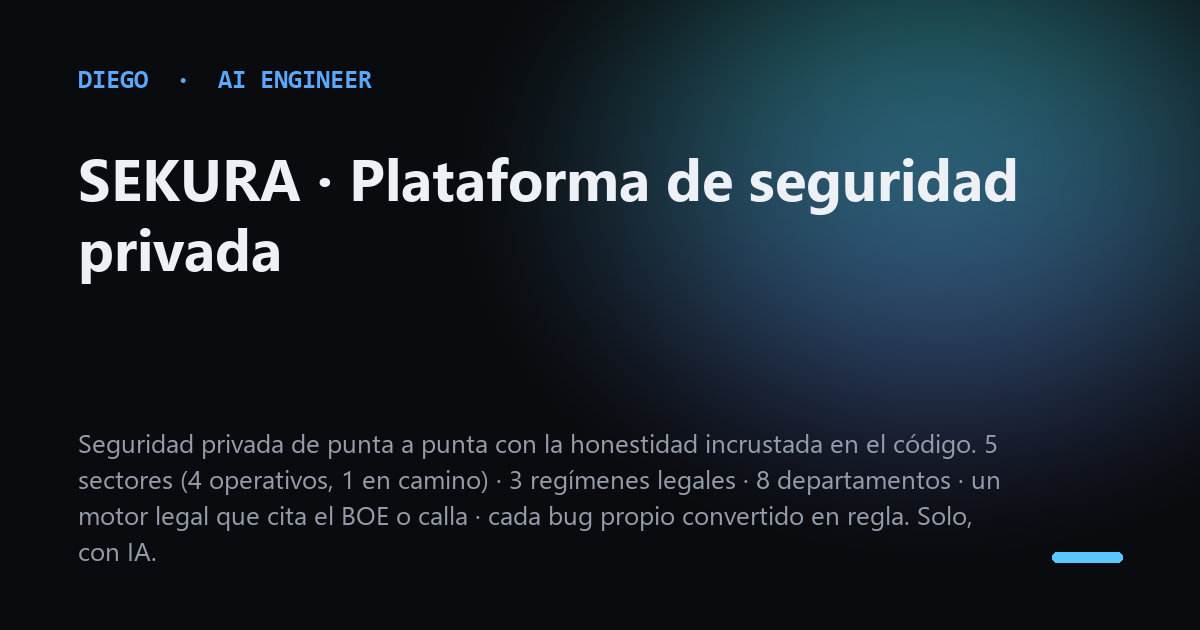
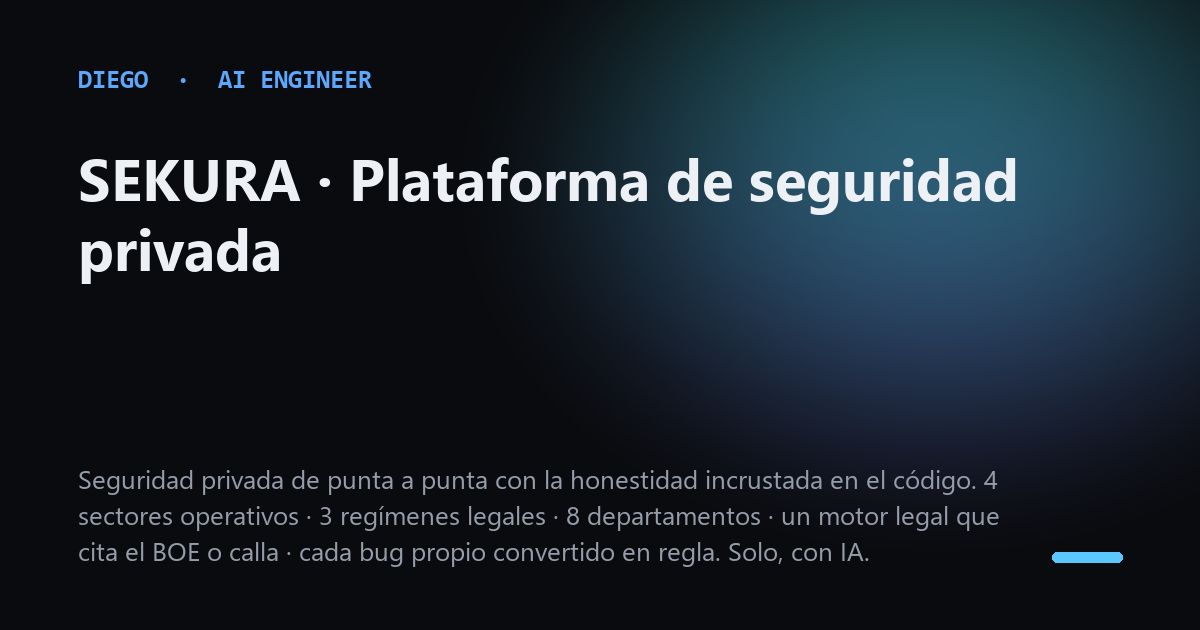
el RAG se publica con su medicion, y TikTok Ads entra en el stack
El sitio decia «no lo he construido: RAG y bases vectoriales» y es falso desde
el 03-09: SEKURA tiene el camino completo (ingesta, embeddings de 384 dim,
pgvector, recuperacion). Se publica lo que se midio, que es lo que vale:

  no separa · recall@1 28-38 % · por eso el gate de citas sigue determinista

Docker y Kubernetes se quedan en «no lo he construido», que si es verdad.
Y las 2 tarjetas og: desincronizadas, regeneradas.

Changed region(s): [[0.0617, 0.754, 0.8325, 0.9048], [0.0617, 0.6937, 0.8325, 0.7238], [0.0617, 0.8143, 0.0925, 0.8444]]

diff --git a/SEKURA/SEKURA.html b/SEKURA/SEKURA.html
@@ -4,10 +4,10 @@
 <meta charset="UTF-8">
 <meta name="viewport" content="width=device-width, initial-scale=1.0">
 <title>Diego · SEKURA · Plataforma de seguridad privada</title>
-<meta name="description" content="Plataforma full-stack de seguridad privada (España) construida en solitario con IA en ~6 semanas: 5 sectores (4 operativos, 1 en camino) con 3 regímenes legales, un Centro de Mando de 8 departamentos, defensa en profundidad y un motor legal que se prohíbe dictaminar cumplimiento. Es un MVP (Stripe test, licencia en trámite): la honestidad y el rigor están incrustados en la arquitectura.">
+<meta name="description" content="Plataforma full-stack de seguridad privada (España) construida en solitario con IA en ~6 semanas: 4 sectores operativos con 3 regímenes legales, un Centro de Mando de 8 departamentos, defensa en profundidad y un motor legal que se prohíbe dictaminar cumplimiento. Es un MVP (Stripe test, licencia en trámite): la honestidad y el rigor están incrustados en la arquitectura.">
 <meta name="color-scheme" content="dark">
 <meta property="og:title" content="Diego · SEKURA · Plataforma de seguridad privada">
-<meta property="og:description" content="Seguridad privada de punta a punta con la honestidad incrustada en el código. 5 sectores (4 operativos, 1 en camino) · 3 regímenes legales · 8 departamentos · un motor legal que cita el BOE o calla · cada bug propio convertido en regla. Solo, con IA.">
+<meta property="og:description" content="Seguridad privada de punta a punta con la honestidad incrustada en el código. 4 sectores operativos · 3 regímenes legales · 8 departamentos · un motor legal que cita el BOE o calla · cada bug propio convertido en regla. Solo, con IA.">
 <meta property="og:url" content="https://diegotomasllopis.com/SEKURA/SEKURA.html">
 <meta property="og:image" content="https://diegotomasllopis.com/assets/og-sekura.png">
 <meta property="og:image:width" content="1200">
@@ -813,10 +813,10 @@ body{overflow:hidden}
     </div>
 
     <div class="stats">
-      <div class="stat reveal"><div class="n display grad-text"><span class="ct" data-to="5"></span></div><div class="l"><span class="t-es">sectores de reserva, <b>4 operativos, 1 en camino</b> · 3 regímenes legales</span><span class="t-en">booking sectors, <b>4 live, 1 coming</b> · 3 legal regimes</span><span class="t-ca">sectors de reserva, <b>4 operatius, 1 en camí</b> · 3 règims legals</span></div></div>
+      <div class="stat reveal"><div class="n display grad-text"><span class="ct" data-to="4"></span></div><div class="l"><span class="t-es">sectores de reserva, <b>los 4 operativos</b> · 3 regímenes legales</span><span class="t-en">booking sectors, <b>all 4 live</b> · 3 legal regimes</span><span class="t-ca">sectors de reserva, <b>els 4 operatius</b> · 3 règims legals</span></div></div>
       <div class="stat reveal"><div class="n display grad-text"><span class="ct" data-to="8"></span></div><div class="l"><span class="t-es">departamentos · una empresa como software</span><span class="t-en">departments · a company as software</span><span class="t-ca">departaments · una empresa com a programari</span></div></div>
-      <div class="stat reveal"><div class="n display grad-text"><span class="ct" data-to="257"></span></div><div class="l"><span class="t-es">tests unit en verde · + suite RLS contra una BD real</span><span class="t-en">unit tests green · + RLS suite against a real DB</span><span class="t-ca">tests unit en verd · + suite RLS contra una BD real</span></div></div>
-      <div class="stat reveal"><div class="n display grad-text"><span class="ct" data-to="23"></span></div><div class="l"><span class="t-es">bugs propios cazados · cada uno &rarr; una regla</span><span class="t-en">of my own bugs caught · each one &rarr; a rule</span><span class="t-ca">bugs propis caçats · cadascun &rarr; una regla</span></div></div>
+      <div class="stat reveal"><div class="n display grad-text"><span class="ct" data-to="334"></span></div><div class="l"><span class="t-es">tests unit en verde · + suite RLS contra una BD real</span><span class="t-en">unit tests green · + RLS suite against a real DB</span><span class="t-ca">tests unit en verd · + suite RLS contra una BD real</span></div></div>
+      <div class="stat reveal"><div class="n display grad-text"><span class="ct" data-to="32"></span></div><div class="l"><span class="t-es">incidentes propios registrados · 28 de ellos &rarr; una regla</span><span class="t-en">of my own incidents logged · 28 of them &rarr; a rule</span><span class="t-ca">incidents propis registrats · 28 d'ells &rarr; una regla</span></div></div>
     </div>
   </header>
 </div>
@@ -828,10 +828,10 @@ body{overflow:hidden}
   <div class="wrap">
     <div class="sec-head reveal">
       <div class="eyebrow"><span class="t-es">El catálogo honesto</span><span class="t-en">The honest catalog</span><span class="t-ca">El catàleg honest</span></div>
-      <h2 class="t-es">Cinco sectores, tres regímenes legales, y el producto sabe la diferencia</h2>
-      <h2 class="t-en">Five sectors, three legal regimes, and the product knows the difference</h2><h2 class="t-ca">Cinc sectors, tres règims legals, i el producte sap la diferència</h2>
-      <p class="t-es">La misma UI vende cinco sectores, pero por debajo el código distingue con precisión cuáles son legalmente "seguridad privada" y cuáles <strong>no</strong>. <strong>Dos de los cinco no lo son</strong>, y la copy de cara al cliente lo admite, porque venderlos como "seguridad" sería intrusismo. La ley encajada en el catálogo, no en un disclaimer.</p>
-      <p class="t-en">The same UI sells five sectors, but underneath the code precisely tells which are legally "private security" and which are <strong>not</strong>. <strong>Two of the five are not</strong>, and the client-facing copy admits it, because selling them as "security" would be an offense. The law embedded in the catalog, not in a disclaimer.</p><p class="t-ca">La mateixa UI ven cinc sectors, però per sota el codi distingeix amb precisió quins són legalment «seguretat privada» i quins <strong>no</strong>. <strong>Dos dels cinc no ho són</strong>, i la copy de cara al client ho admet, perquè vendre'ls com a «seguretat» seria intrusisme. La llei encaixada al catàleg, no en un disclaimer.</p>
+      <h2 class="t-es">Cuatro sectores, tres regímenes legales, y el producto sabe la diferencia</h2>
+      <h2 class="t-en">Four sectors, three legal regimes, and the product knows the difference</h2><h2 class="t-ca">Quatre sectors, tres règims legals, i el producte sap la diferència</h2>
+      <p class="t-es">La misma UI vende cuatro sectores, pero por debajo el código distingue con precisión cuáles son legalmente "seguridad privada" y cuáles <strong>no</strong>. <strong>Dos de los cuatro no lo son</strong>, y la copy de cara al cliente lo admite, porque venderlos como "seguridad" sería intrusismo. La ley encajada en el catálogo, no en un disclaimer.</p>
+      <p class="t-en">The same UI sells four sectors, but underneath the code precisely tells which are legally "private security" and which are <strong>not</strong>. <strong>Two of the four are not</strong>, and the client-facing copy admits it, because selling them as "security" would be an offense. The law embedded in the catalog, not in a disclaimer.</p><p class="t-ca">La mateixa UI ven quatre sectors, però per sota el codi distingeix amb precisió quins són legalment «seguretat privada» i quins <strong>no</strong>. <strong>Dos dels quatre no ho són</strong>, i la copy de cara al client ho admet, perquè vendre'ls com a «seguretat» seria intrusisme. La llei encaixada al catàleg, no en un disclaimer.</p>
     </div>
 
     <table class="stbl reveal">
@@ -866,19 +866,13 @@ body{overflow:hidden}
           <td data-h="How it's engaged" data-h-es="Cómo se contrata" data-h-ca="Com es contracta"><span class="v v-val"><span class="t-es">self-service · fuera del ámbito de la ley</span><span class="t-en">self-service · outside the law's scope</span><span class="t-ca">self-service · fora de l'àmbit de la llei</span></span></td>
           <td data-h="Private security?" data-h-es="¿Seguridad privada?" data-h-ca="Seguretat privada?"><span class="v v-inc"><span class="t-es">NO</span><span class="t-en">NO</span><span class="t-ca">NO</span></span></td>
         </tr>
-        <tr>
-          <td data-h="Sector" data-h-es="Sector" data-h-ca="Sector"><span class="sn"><span class="t-es">Cuerpos del Estado</span><span class="t-en">State forces</span><span class="t-ca">Cossos de l'Estat</span></span><span class="sd"><span class="t-es">En preparación</span><span class="t-en">In preparation</span><span class="t-ca">En preparació</span></span></td>
-          <td data-h="Legal regime" data-h-es="Régimen legal" data-h-ca="Règim legal"><span class="mono">: </span></td>
-          <td data-h="How it's engaged" data-h-es="Cómo se contrata" data-h-ca="Com es contracta"><span class="mono">: </span></td>
-          <td data-h="Private security?" data-h-es="¿Seguridad privada?" data-h-ca="Seguretat privada?"><span class="v v-marg"><span class="t-es">Pronto</span><span class="t-en">Soon</span><span class="t-ca">Aviat</span></span></td>
-        </tr>
       </tbody>
     </table>
 
     <div class="truth reveal">
       <span class="tl grad-text"><span class="t-es">Honestidad como arquitectura</span><span class="t-en">Honesty as architecture</span><span class="t-ca">Honestedat com a arquitectura</span></span>
-      <p class="t-es">El controlador de acceso (régimen autonómico de espectáculos) y el personal auxiliar (art. 6.2) <b>no son seguridad privada</b>, y el motor lo sabe: cada sector lleva su régimen, y el gate legal <b>exime</b> a los que la ley no obliga (sin autorización estatal, sin contrato del art. 20.1). Cada servicio compone además una calculadora distinta y una tabla de asignación propia; un cliente puede pedir <b>varios a la vez</b> para un evento, y cada uno conserva intacta su maquinaria legal.</p>
-      <p class="t-en">Access control (regional entertainment regime) and auxiliary staff (art. 6.2) <b>are not private security</b>, and the engine knows it: each sector carries its regime, and the legal gate <b>exempts</b> those the law doesn't bind (no state authorization, no art. 20.1 contract). Each service also composes a distinct calculator and its own assignment table; a client can request <b>several at once</b> for one event, and each keeps its legal machinery intact.</p><p class="t-ca">El controlador d'accés (règim autonòmic d'espectacles) i el personal auxiliar (art. 6.2) <b>no són seguretat privada</b>, i el motor ho sap: cada sector porta el seu règim, i el gate legal <b>eximeix</b> els que la llei no obliga (sense autorització estatal, sense contracte de l'art. 20.1). Cada servei compon a més una calculadora diferent i una taula d'assignació pròpia; un client en pot demanar <b>diversos alhora</b> per a un esdeveniment, i cadascun conserva intacta la seva maquinària legal.</p>
+      <p class="t-es">El controlador de acceso (régimen autonómico de espectáculos) y el personal auxiliar (art. 6.2) <b>no son seguridad privada</b>, y el motor lo sabe: cada sector lleva su régimen, y el gate legal <b>exime</b> a los que la ley no obliga (sin autorización estatal, sin contrato del art. 20.1). Cada servicio compone además una calculadora distinta y una tabla de asignación propia; un cliente puede pedir <b>varios a la vez</b> para un evento, y cada uno conserva intacta su maquinaria legal. Hubo un 5.º sector planeado ("Cuerpos del Estado", ex-agentes que protegen personas) y se <b>retiró</b>, no por falta de tiempo: el BOE tiene una lista cerrada de habilitaciones (art. 26.1) y un ex-agente que protege personas ya <b>es</b> un escolta habilitado, no una categoría aparte. Mantener el rótulo habría sido la promesa pública falsa; retirarlo fue lo que la ley exigía.</p>
+      <p class="t-en">Access control (regional entertainment regime) and auxiliary staff (art. 6.2) <b>are not private security</b>, and the engine knows it: each sector carries its regime, and the legal gate <b>exempts</b> those the law doesn't bind (no state authorization, no art. 20.1 contract). Each service also composes a distinct calculator and its own assignment table; a client can request <b>several at once</b> for one event, and each keeps its legal machinery intact. A planned 5th sector ("State forces", ex-officers doing personal protection) got <b>pulled</b>, and not for lack of time: the BOE has a closed list of authorizations (art. 26.1), and an ex-officer protecting people already <b>is</b> a licensed bodyguard, not a separate category. Keeping the label would have been the false public promise; pulling it is what the law required.</p><p class="t-ca">El controlador d'accés (règim autonòmic d'espectacles) i el personal auxiliar (art. 6.2) <b>no són seguretat privada</b>, i el motor ho sap: cada sector porta el seu règim, i el gate legal <b>eximeix</b> els que la llei no obliga (sense autorització estatal, sense contracte de l'art. 20.1). Cada servei compon a més una calculadora diferent i una taula d'assignació pròpia; un client en pot demanar <b>diversos alhora</b> per a un esdeveniment, i cadascun conserva intacta la seva maquinària legal. Hi va haver un 5è sector planejat («Cossos de l'Estat», ex-agents que protegeixen persones) i es va <b>retirar</b>, no per falta de temps: el BOE té una llista tancada d'habilitacions (art. 26.1) i un ex-agent que protegeix persones ja <b>és</b> un escorta habilitat, no una categoria a part. Mantenir el rètol hauria estat la promesa pública falsa; retirar-lo és el que la llei exigia.</p>
     </div>
   </div>
 </section>
@@ -1182,8 +1176,8 @@ body{overflow:hidden}
 
     <div class="truth reveal">
       <span class="tl grad-text"><span class="t-es">Cita o calla</span><span class="t-en">Cite or stay silent</span><span class="t-ca">Cita o calla</span></span>
-      <p class="t-es">Ningún agente afirma que SEKURA "cumple": el dictamen lo firma un abogado. Cada norma vigilada y cada hallazgo llevan <b>URL oficial (BOE / EUR-Lex / AEPD) y cita literal</b>, fetcheada en la corrida; sin fuente verificada, no se reporta. La regla nació de un fallo real: un agente de este equipo <b>se inventó un hecho legal</b> y casi entra en material de inversor. La watchlist que barre la rutina mensual es <b>la misma</b> que ve el inversor, no pueden divergir. Y sobre el estatus, sin adornos: <b>MVP · Stripe test · licencia y Nº de Registro en trámite</b> (placeholder honesto, no inventado).</p>
-      <p class="t-en">No agent claims SEKURA "complies": the ruling is a lawyer's. Every watched rule and every finding carries an <b>official URL (BOE / EUR-Lex / AEPD) and a literal citation</b>, fetched during the run; without a verified source, it isn't reported. The rule was born from a real failure: an agent on this team <b>invented a legal fact</b> and nearly reached investor material. The watchlist the monthly routine sweeps is <b>the same</b> the investor sees: they can't diverge. And on status, unadorned: <b>MVP · Stripe test · license and registry number pending</b> (an honest placeholder, not invented).</p><p class="t-ca">Cap agent afirma que SEKURA «compleix»: el dictamen el signa un advocat. Cada norma vigilada i cada troballa porten <b>URL oficial (BOE / EUR-Lex / AEPD) i cita literal</b>, fetchada a la correguda; sense font verificada, no es reporta. La regla va néixer d'una fallada real: un agent d'aquest equip <b>es va inventar un fet legal</b> i gairebé entra en material d'inversor. La watchlist que escombra la rutina mensual és <b>la mateixa</b> que veu l'inversor, no poden divergir. I sobre l'estatus, sense adorns: <b>MVP · Stripe test · llicència i Nº de Registre en tràmit</b> (placeholder honest, no inventat).</p>
+      <p class="t-es">Ningún agente afirma que SEKURA "cumple": el dictamen lo firma un abogado. Cada norma vigilada y cada hallazgo llevan <b>URL oficial (BOE / EUR-Lex / AEPD) y cita literal</b>, fetcheada en la corrida; sin fuente verificada, no se reporta. La regla nació de un fallo real: un agente de este equipo <b>se inventó un hecho legal</b> y casi entra en material de inversor. Esa regla ya no depende solo de que un agente se acuerde: un verificador puro compara cada cita del catálogo contra el texto oficial del BOE (corpus versionado, sin BD ni red) y <b>bloquea el CI</b> si el literal no aparece; nació de que la misma auditoría cazó dos citas fabricadas en ese catálogo. La watchlist que barre la rutina mensual es <b>la misma</b> que ve el inversor, no pueden divergir. Y sobre el estatus, sin adornos: <b>MVP · Stripe test · licencia y Nº de Registro en trámite</b> (placeholder honesto, no inventado).</p>
+      <p class="t-en">No agent claims SEKURA "complies": the ruling is a lawyer's. Every watched rule and every finding carries an <b>official URL (BOE / EUR-Lex / AEPD) and a literal citation</b>, fetched during the run; without a verified source, it isn't reported. The rule was born from a real failure: an agent on this team <b>invented a legal fact</b> and nearly reached investor material. That rule no longer depends only on an agent remembering: a pure verifier diffs every catalog citation against the BOE's official text (versioned corpus, no DB, no network) and <b>blocks CI</b> when the literal doesn't match; born from that same audit catching two fabricated citations in that catalog. The watchlist the monthly routine sweeps is <b>the same</b> the investor sees: they can't diverge. And on status, unadorned: <b>MVP · Stripe test · license and registry number pending</b> (an honest placeholder, not invented).</p><p class="t-ca">Cap agent afirma que SEKURA «compleix»: el dictamen el signa un advocat. Cada norma vigilada i cada troballa porten <b>URL oficial (BOE / EUR-Lex / AEPD) i cita literal</b>, fetchada a la correguda; sense font verificada, no es reporta. La regla va néixer d'una fallada real: un agent d'aquest equip <b>es va inventar un fet legal</b> i gairebé entra en material d'inversor. Aquesta regla ja no depèn només que un agent se'n recordi: un verificador pur compara cada cita del catàleg contra el text oficial del BOE (corpus versionat, sense BD ni xarxa) i <b>bloqueja el CI</b> si el literal no hi apareix; va néixer que la mateixa auditoria va caçar dues citacions fabricades en aquest catàleg. La watchlist que escombra la rutina mensual és <b>la mateixa</b> que veu l'inversor, no poden divergir. I sobre l'estatus, sense adorns: <b>MVP · Stripe test · llicència i Nº de Registre en tràmit</b> (placeholder honest, no inventat).</p>
     </div>
   </div>
 </section>
@@ -1196,8 +1190,8 @@ body{overflow:hidden}
       <div class="eyebrow"><span class="t-es">El registro de incidentes</span><span class="t-en">The incident ledger</span><span class="t-ca">El registre d'incidents</span></div>
       <h2 class="t-es">Bugs que cacé en mi propio sistema, y qué aprendí de cada uno</h2>
       <h2 class="t-en">Bugs I caught in my own system, and what each one taught me</h2><h2 class="t-ca">Bugs que vaig caçar al meu propi sistema, i què vaig aprendre de cadascun</h2>
-      <p class="t-es">No presumo de no tener bugs. Presumo de un <strong>sistema que los caza</strong>: un registro append-only donde cada incidente se convierte en una regla que la próxima sesión aplica sola. Estos son reales, del propio proyecto (23 en total), contados <strong>a nivel de patrón</strong>, sin exponer el esquema.</p>
-      <p class="t-en">I don't brag about having no bugs. I brag about a <strong>system that catches them</strong>: an append-only ledger where each incident becomes a rule the next session applies on its own. These are real, from the project (23 total), told <strong>at the pattern level</strong>: no schema exposed.</p><p class="t-ca">No presumeixo de no tenir bugs. Presumeixo d'un <strong>sistema que els caça</strong>: un registre append-only on cada incident es converteix en una regla que la sessió següent aplica sola. Aquests són reals, del mateix projecte (23 en total), explicats <strong>a nivell de patró</strong>, sense exposar l'esquema.</p>
+      <p class="t-es">No presumo de no tener bugs. Presumo de un <strong>sistema que los caza</strong>: un registro append-only donde cada incidente se convierte en una regla que la próxima sesión aplica sola. Estos son reales, del propio proyecto (32 en total), contados <strong>a nivel de patrón</strong>, sin exponer el esquema.</p>
+      <p class="t-en">I don't brag about having no bugs. I brag about a <strong>system that catches them</strong>: an append-only ledger where each incident becomes a rule the next session applies on its own. These are real, from the project (32 total), told <strong>at the pattern level</strong>: no schema exposed.</p><p class="t-ca">No presumeixo de no tenir bugs. Presumeixo d'un <strong>sistema que els caça</strong>: un registre append-only on cada incident es converteix en una regla que la sessió següent aplica sola. Aquests són reals, del mateix projecte (32 en total), explicats <strong>a nivell de patró</strong>, sense exposar l'esquema.</p>
     </div>
 
     <table class="stbl reveal">
@@ -1255,6 +1249,12 @@ body{overflow:hidden}
           <td data-h="What it was" data-h-es="Qué era" data-h-ca="Què era"><span class="t-es">Como todo el back-office comparte el mismo rol técnico, una regla basada en "es admin" abría la PII más sensible a <strong>cualquier</strong> miembro por su propio token, saltándose el permiso fino por departamento.</span><span class="t-en">Since the whole back-office shares one technical role, a rule based on "is admin" opened the most sensitive PII to <strong>any</strong> member via their own token, bypassing the fine-grained departmental permission.</span><span class="t-ca">Com que tot el back-office comparteix el mateix rol tècnic, una regla basada en «és admin» obria la PII més sensible a <strong>qualsevol</strong> membre pel seu propi token, saltant-se el permís fi per departament.</span></td>
           <td data-h="Evidence" data-h-es="Evidencia" data-h-ca="Evidència" class="mono"><span class="t-es">cero-grant-a-admin; nunca desplegado</span><span class="t-en">zero-grant-to-admin; never shipped</span><span class="t-ca">zero-grant-a-admin; mai desplegat</span></td>
           <td data-h="Verdict" data-h-es="Veredicto" data-h-ca="Veredicte"><span class="v v-val"><span class="t-es">cazado pre-push</span><span class="t-en">caught pre-push</span><span class="t-ca">caçat pre-push</span></span></td>
+        </tr>
+        <tr>
+          <td data-h="Incident" data-h-es="Incidente" data-h-ca="Incident"><span class="sn"><span class="t-es">Dos citas del BOE que no eran literales</span><span class="t-en">Two BOE quotes that weren't literal</span><span class="t-ca">Dues cites del BOE que no eren literals</span></span><span class="sd"><span class="t-es">Una auditoría cazó dos citas fabricadas en el propio catálogo legal.</span><span class="t-en">An audit caught two fabricated citations in the legal catalog itself.</span><span class="t-ca">Una auditoria va caçar dues citacions fabricades al mateix catàleg legal.</span></span></td>
+          <td data-h="What it was" data-h-es="Qué era" data-h-ca="Què era"><span class="t-es">Un fetch parafraseó en vez de transcribir: una cita entre comillas no existía con esas palabras en el BOE, y otra citaba un artículo que no dice lo que afirmábamos. El mismo fallo que ya había costado un hecho legal inventado, esta vez dentro del catálogo que existe para citarlo bien.</span><span class="t-en">A fetch paraphrased instead of transcribing: one quoted string didn't exist verbatim in the BOE, and another cited an article that doesn't say what we claimed. The same failure that had already produced an invented legal fact, this time inside the catalog that exists to cite it right.</span><span class="t-ca">Un fetch va parafrasejar en lloc de transcriure: una cita entre cometes no existia amb aquestes paraules al BOE, i una altra citava un article que no diu el que afirmàvem. La mateixa fallada que ja havia costat un fet legal inventat, aquesta vegada dins del catàleg que existeix per citar-lo bé.</span></td>
+          <td data-h="Evidence" data-h-es="Evidencia" data-h-ca="Evidència" class="mono"><span class="t-es">verificador puro: literal vs. bloque oficial del BOE</span><span class="t-en">pure verifier: literal vs. official BOE block</span><span class="t-ca">verificador pur: literal vs. bloc oficial del BOE</span></td>
+          <td data-h="Verdict" data-h-es="Veredicto" data-h-ca="Veredicte"><span class="v v-res"><span class="t-es">&rarr; gate en el CI</span><span class="t-en">&rarr; CI gate</span><span class="t-ca">&rarr; gate al CI</span></span></td>
         </tr>
       </tbody>
     </table>
@@ -1624,7 +1624,7 @@ document.querySelectorAll('.ct').forEach(function(c){ c.textContent=(c.dataset.p
   var NS='http://www.w3.org/2000/svg';
   var NODES=[
     {id:'core',x:500,y:286,r:36,c:'#9b5cff',href:'#top',es:'SEKURA',en:'SEKURA',ses:'una sola verdad',sen:'a single source of truth'},
-    {id:'sectores',x:500,y:92,r:26,c:'#22d3ff',href:'#sectores',es:'Sectores',en:'Sectors',ses:'5 · 3 regímenes legales',sen:'5 · 3 legal regimes'},
+    {id:'sectores',x:500,y:92,r:26,c:'#22d3ff',href:'#sectores',es:'Sectores',en:'Sectors',ses:'4 · 3 regímenes legales',sen:'4 · 3 legal regimes'},
     {id:'flujo',x:816,y:188,r:26,c:'#5dd0ff',href:'#flujo',es:'Flujo',en:'Flow',ses:'designar ≠ asignar',sen:'designate ≠ assign'},
     {id:'mando',x:816,y:392,r:27,c:'#a273ff',href:'#mando',es:'Mando',en:'Command',ses:'8 departamentos',sen:'8 departments'},
     {id:'defensa',x:500,y:486,r:27,c:'#ff9b5c',href:'#defensa',es:'Defensa',en:'Defense',ses:'7 capas · PII',sen:'7 layers · PII'},

diff --git a/index.html b/index.html
@@ -8,7 +8,7 @@
 <meta name="color-scheme" content="dark">
 <meta name="theme-color" content="#06060a">
 <meta property="og:title" content="Diego · AI Engineer · sistemas de IA que no pueden mentir">
-<meta property="og:description" content="Evals, guardrails y grounding: construyo la capa que impide que un sistema de IA afirme algo falso. 5 sistemas en uso real, con gates que bloquean: 136 facturas conciliadas por OCR en 4 divisas, 1.424 commits en 5 repos.">
+<meta property="og:description" content="Evals, guardrails y grounding: construyo la capa que impide que un sistema de IA afirme algo falso. 5 sistemas en uso real, con gates que bloquean: 136 facturas conciliadas por OCR en 4 divisas, 1.434 commits en 5 repos.">
 <meta property="og:url" content="https://diegotomasllopis.com/">
 <meta property="og:image" content="https://diegotomasllopis.com/assets/og-index.png">
 <meta property="og:image:width" content="1200">
@@ -1603,7 +1603,7 @@ body{overflow:hidden}
       <!-- El "a 13-08" NO es adorno: esta cifra decae a diario (YOUTUBE
            commiteo 7 veces solo hoy) y sin fecha se convierte en falsa
            sola en 48 h. Con fecha es una foto, que es lo que es. -->
-      <div class="stat reveal"><div class="n display grad-text"><span class="ct" data-to="1424"></span></div><div class="l"><span class="t-es">commits en 5 repos a 25-08 · <b>14 meses con LLMs</b> (desde jun-2025), sin formación previa</span><span class="t-en">commits across 5 repos as of 25-08 · <b>14 months with LLMs</b> (since Jun 2025), no prior training</span><span class="t-ca">commits en 5 repos a 25-08 · <b>14 mesos amb LLMs</b> (des del jun-2025), sense formació prèvia</span></div></div>
+      <div class="stat reveal"><div class="n display grad-text"><span class="ct" data-to="1434"></span></div><div class="l"><span class="t-es">commits en 5 repos a 03-09 · <b>14 meses con LLMs</b> (desde jun-2025), sin formación previa</span><span class="t-en">commits across 5 repos as of 03-09 · <b>14 months with LLMs</b> (since Jun 2025), no prior training</span><span class="t-ca">commits en 5 repos a 03-09 · <b>14 mesos amb LLMs</b> (des del jun-2025), sense formació prèvia</span></div></div>
       <!-- Decia "20 skills propias REUTILIZADAS" y era falso por implicatura:
            solo 4 viven en mas de un repo (run x3, optimize x3, eval x2,
            daily-run x2); las otras 16 estan en uno solo. Un ingeniero lo ve
@@ -1854,7 +1854,7 @@ body{overflow:hidden}
           <h3>SEKURA</h3>
           <span class="kind"><span class="t-es">startup en desarrollo · código privado</span><span class="t-en">startup in progress · private code</span><span class="t-ca">startup en desenvolupament · codi privat</span></span>
         </div>
-        <p class="thesis"><span class="t-es">Un dominio regulado y complejo (seguridad privada en España) sin ser del sector: <strong>5 sectores de reserva (4 operativos, 1 en camino) con 3 regímenes legales</strong>, un Centro de Mando de 8 departamentos y defensa en profundidad. De cero a producto desplegado en <strong>~6 semanas</strong>.</span><span class="t-en">A regulated, complex domain (private security in Spain) without being from the industry: <strong>5 booking sectors (4 live, 1 coming) under 3 legal regimes</strong>, an 8-department Command Centre and defense in depth. From zero to deployed product in <strong>~6 weeks</strong>.</span><span class="t-ca">Un domini regulat i complex (seguretat privada a Espanya) sense ser del sector: <strong>5 sectors de reserva (4 operatius, 1 en camí) amb 3 règims legals</strong>, un Centre de Comandament de 8 departaments i defensa en profunditat. De zero a producte desplegat en <strong>~6 setmanes</strong>.</span></p>
+        <p class="thesis"><span class="t-es">Un dominio regulado y complejo (seguridad privada en España) sin ser del sector: <strong>4 sectores de reserva operativos con 3 regímenes legales</strong>, un Centro de Mando de 8 departamentos y defensa en profundidad. De cero a producto desplegado en <strong>~6 semanas</strong>.</span><span class="t-en">A regulated, complex domain (private security in Spain) without being from the industry: <strong>4 live booking sectors under 3 legal regimes</strong>, an 8-department Command Centre and defense in depth. From zero to deployed product in <strong>~6 weeks</strong>.</span><span class="t-ca">Un domini regulat i complex (seguretat privada a Espanya) sense ser del sector: <strong>4 sectors de reserva operatius amb 3 règims legals</strong>, un Centre de Comandament de 8 departaments i defensa en profunditat. De zero a producte desplegat en <strong>~6 setmanes</strong>.</span></p>
         <div class="pipe"><span>solicitud</span><i>→</i><span>designar</span><i>→</i><span>autorizar</span><i>→</i><span>contrato</span><i>→</i><span>señal</span><i>⊣</i><span class="gate">cita el BOE o calla</span></div>
         <div class="pj-vid" data-hero="SEKURA/SEKURA-centro-de-mando.mp4" role="button" tabindex="0"
              aria-label="Reproducir el corte de 90 s de SEKURA">
@@ -1872,9 +1872,9 @@ body{overflow:hidden}
           <span class="t-en"><b>Private code.</b> SEKURA is launching as a startup with a partner, aiming for a round. <b>The video pipeline and RESELLERMASTER are open</b>; ECXM OPS and the quant lab stay private, and their code is available on request.</span><span class="t-ca"><b>Codi privat.</b> SEKURA es llança com a startup amb soci, amb vistes a ronda. <b>El pipeline de vídeo i RESELLERMASTER estan oberts</b>; ECXM OPS i el laboratori quant segueixen privats, i el seu codi està disponible sota petició.</span>
         </div>
         <div class="pj-nums">
-          <span><b>257</b> <span class="t-es">tests en verde</span><span class="t-en">tests green</span><span class="t-ca">tests en verd</span></span>
+          <span><b>334</b> <span class="t-es">tests en verde + 159 RLS reales</span><span class="t-en">tests green + 159 real RLS</span><span class="t-ca">tests en verd + 159 RLS reals</span></span>
           <span><b>8</b> <span class="t-es">departamentos</span><span class="t-en">departments</span><span class="t-ca">departaments</span></span>
-          <span><b>18/23</b> <span class="t-es">bugs → reglas</span><span class="t-en">bugs → rules</span><span class="t-ca">bugs → regles</span></span>
+          <span><b>28/32</b> <span class="t-es">bugs → reglas</span><span class="t-en">bugs → rules</span><span class="t-ca">bugs → regles</span></span>
         </div>
         <div class="pj-foot">
           <div class="roles">
@@ -2481,12 +2481,16 @@ body{overflow:hidden}
        nuevo, es el mismo texto condensado. ══ -->
   <div class="nots reveal">
     <div class="nots-r">
+      <span class="nots-k"><span class="t-es">construido y medido</span><span class="t-en">built and measured</span><span class="t-ca">construït i mesurat</span></span>
+      <span class="nots-v"><span class="t-es">RAG sobre el corpus del BOE: lo medí y <b>no separa</b> (recall@1 28-38 %), así que el gate de citas sigue siendo determinista</span><span class="t-en">RAG over the BOE corpus: I measured it and it <b>doesn't separate</b> (28-38 % recall@1), so the citation gate stays deterministic</span><span class="t-ca">RAG sobre el corpus del BOE: el vaig mesurar i <b>no separa</b> (recall@1 28-38 %), així que el gate de cites segueix sent determinista</span></span>
+    </div>
+    <div class="nots-r">
       <span class="nots-k"><span class="t-es">escrito a mano en vez de</span><span class="t-en">hand-written instead of</span><span class="t-ca">escrit a mà en comptes de</span></span>
       <span class="nots-v">LangChain · LlamaIndex · LangSmith · Weights &amp; Biases · Guardrails AI · NeMo Guardrails</span>
     </div>
     <div class="nots-r">
       <span class="nots-k nots-no"><span class="t-es">no lo he construido</span><span class="t-en">I haven't built</span><span class="t-ca">no ho he construït</span></span>
-      <span class="nots-v"><span class="t-es">RAG y bases vectoriales · Docker · Kubernetes</span><span class="t-en">RAG and vector databases · Docker · Kubernetes</span><span class="t-ca">RAG i bases vectorials · Docker · Kubernetes</span></span>
+      <span class="nots-v"><span class="t-es">Docker · Kubernetes</span><span class="t-en">Docker · Kubernetes</span><span class="t-ca">Docker · Kubernetes</span></span>
     </div>
   </div>
 
@@ -2506,7 +2510,7 @@ body{overflow:hidden}
       <h4><span class="t-es">Adquisición y e-commerce</span><span class="t-en">Acquisition and e-commerce</span><span class="t-ca">Adquisició i e-commerce</span></h4>
       <div class="stk-c">
         <span class="prod">Meta Ads</span><span class="prod">Business Manager</span><span class="prod">píxel / CAPI</span>
-        <span class="prod">Shopify</span><span class="prod">COD · logística inversa</span><span>Google Ads</span>
+        <span class="prod">Shopify</span><span class="prod">COD · logística inversa</span><span>Google Ads</span><span>TikTok Ads</span>
       </div>
     </div>
     </div>
@@ -3331,7 +3335,7 @@ var SC=document.getElementById('twBody');
   var LINES=[
     ['booting portfolio.diego · v2 · 13-08', 40],
     ['load  identity ................. <span class="ok">ok</span>', 260],
-    ['mount 5 repos · 1424 commits ... <span class="ok">ok</span>', 200],
+    ['mount 5 repos · 1434 commits ... <span class="ok">ok</span>', 200],
     /* Estas dos dicen lo mismo que decian, con el verbo delante del
        numero. "109 incidents" a secas se lee como 109 fallos mios; lo
        que prueban es que los 109 estan REGISTRADOS, que es justo lo
